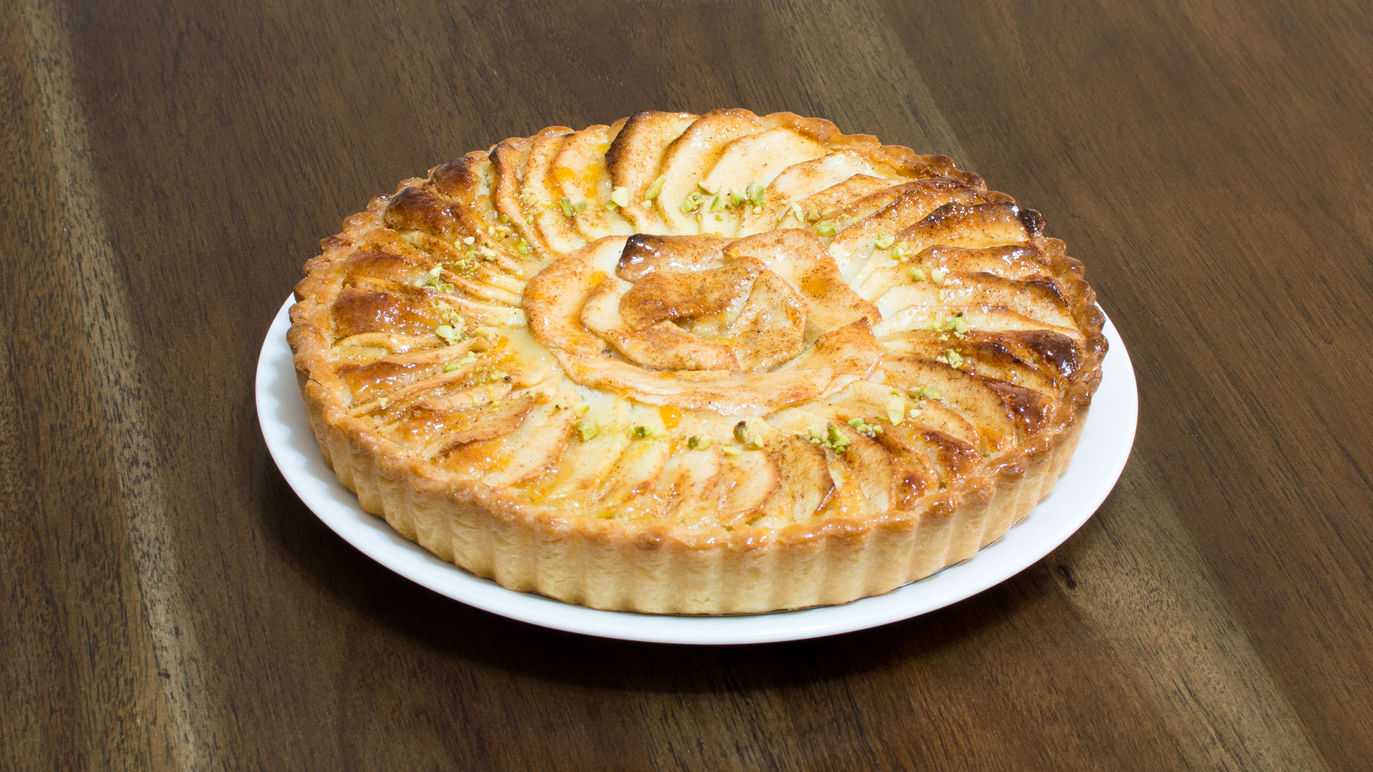
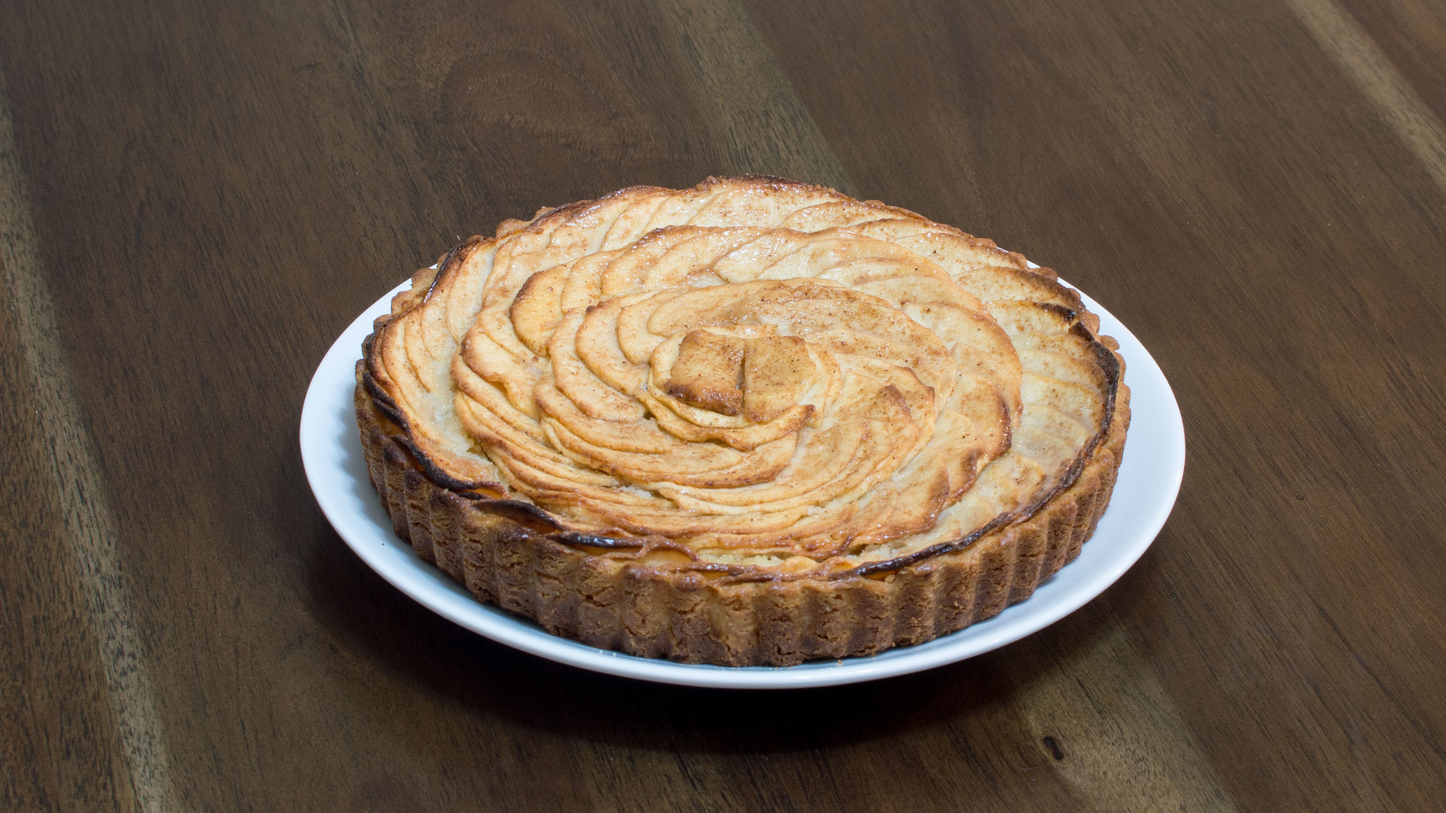
Update tart

diff --git a/index.html b/index.html
@@ -231,15 +231,15 @@ a:link {
       <div class="card">
         <img class="modal_img" src="img/tart_apple.jpg" alt="apple &amp; almond tart." style="width:100%">
         <h2>apple &amp; almond tart.</h2>
-        <p class="price">$18</p>
-        <p class="ingredients">apple. white flour. eggs. unsalted butter. powdered sugar. almond powder. sugar. chopped pistacios. apricot jam. vanilla extract. baking powder. salt.</p>
+        <p class="price">$20</p>
+        <p class="ingredients">apple. white flour. eggs. unsalted butter. powdered sugar. almond powder. sugar. apricot jam. vanilla extract. baking powder. salt.</p>
       </div>
     </div>
     <div class="w3-col w3-half w3-centered w3-container">
       <div class="card">
         <img class="modal_img" src="img/cake_choco.jpg" alt="chocolate cake." style="width:100%">
         <h2>chocolate cake.</h2>
-        <p class="price">$18</p>
+        <p class="price">$17</p>
         <p class="ingredients">sugar. white flour. eggs. unsalted butter. heavy cream. cocoa powder. semi-sweet chocolate. chopped pistacios. vanilla extract. baking powder. salt.</p>
       </div>
     </div>
